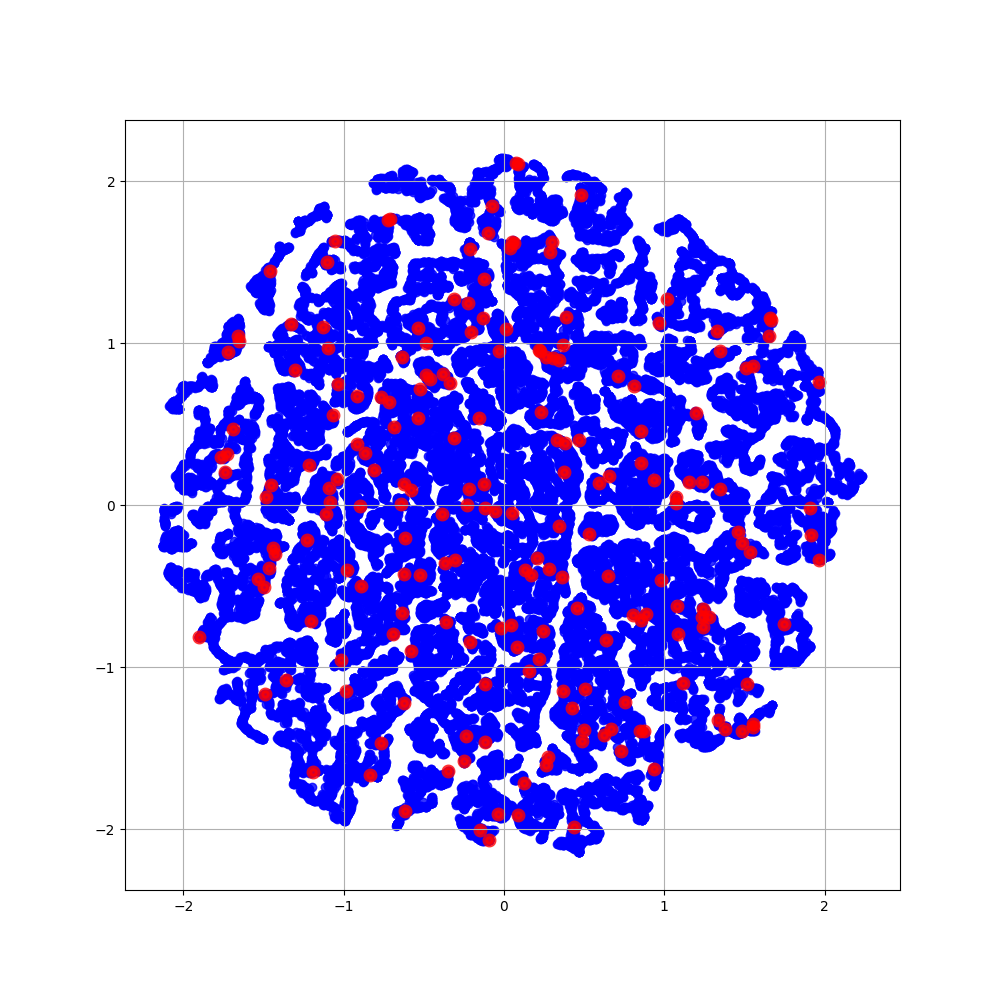
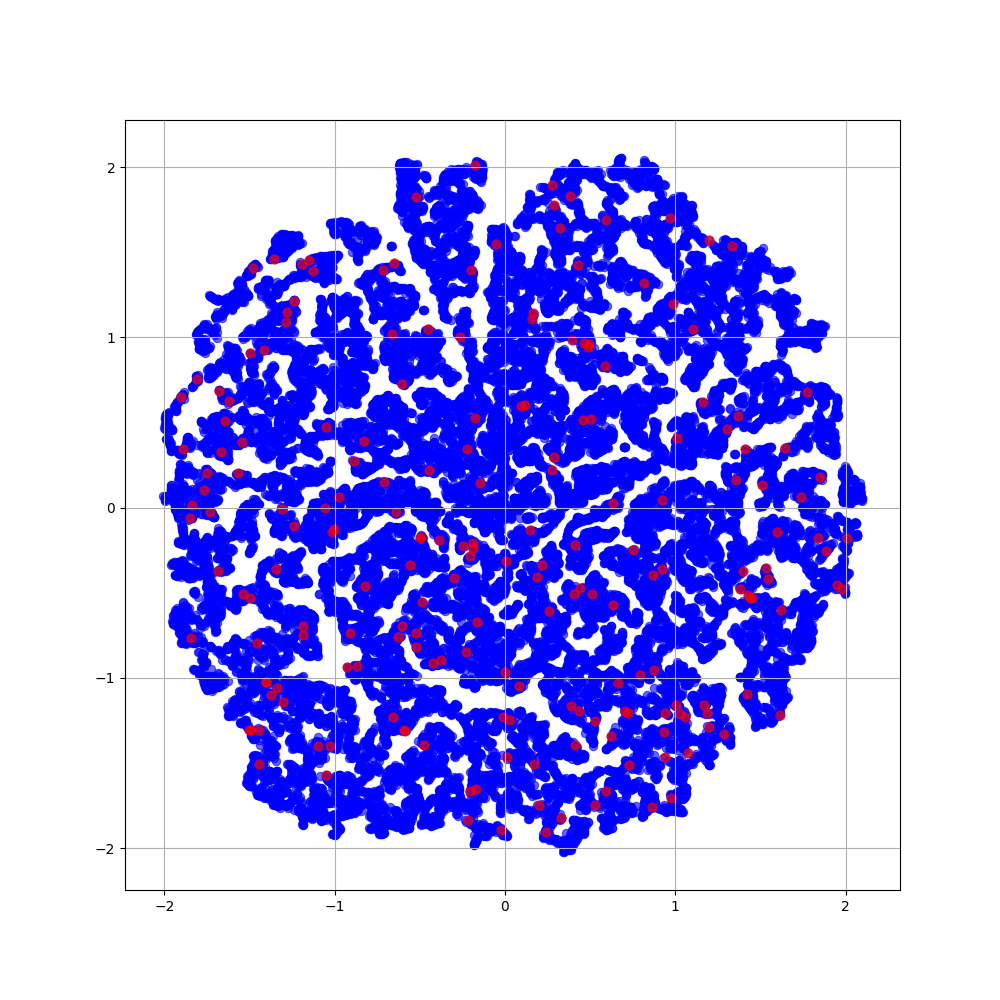
Save

Changed region(s): [[0.155, 0.155, 0.868, 0.868], [0.155, 0.155, 0.186, 0.186], [0.093, 0.651, 0.124, 0.682]]

diff --git a/PCA_Imagenet.py b/PCA_Imagenet.py
@@ -12,12 +12,12 @@ from sklearn.preprocessing import StandardScaler
 #from sklearn.datasets import load_digits
 
 #Input the Data folder here
-BASE_DATA_FOLDER = "../home/data/ilsvrc/ILSVRC/ILSVRC2012_Classification"#"../cat-and-dog"#../hymenoptera_data"#"../Medical_data"
+BASE_DATA_FOLDER = "/home/data/ilsvrc/ILSVRC/ILSVRC2012_Classification"#"../cat-and-dog"#../hymenoptera_data"#"../Medical_data"
 TRAin_DATA_FOLDER = os.path.join(BASE_DATA_FOLDER, "train")
 
 
 #Input the Highlight folder here
-BASE_HIGHLIGHT_FOLDER = "../home/nobelletay/al/org_centers"
+BASE_HIGHLIGHT_FOLDER = "/home/nobelletay/al/org_centers"
 
 
 #Plot
@@ -32,18 +32,18 @@ def visualize_scatter(data_2d, label_ids, figsize=(10,10)):
                     data_2d[np.where(label_ids == label_id), 1],
                     marker='o',
                     color=  'b',
-                    linewidth='1',
-                    alpha=0.8,
+                    linewidth='0.8',
+                    alpha=0.6,
                     label=id_to_label_dict[label_id])
 
     for label_id in np.unique(label_ids):
-        if (id_to_label_dict[label_id] = "highlight"):
+        if (id_to_label_dict[label_id] == "highlight"):
             plt.scatter(data_2d[np.where(label_ids == label_id), 0],
                         data_2d[np.where(label_ids == label_id), 1],
                         marker='o',
                         color= 'red',
-                        linewidth='4',
-                        alpha=0.8,
+                        linewidth='1.5',
+                        alpha=0.6,
                         label=id_to_label_dict[label_id])
 
 
@@ -76,7 +76,7 @@ for class_folder_name in os.listdir(TRAin_DATA_FOLDER):
         image = image.flatten()
         images.append(image)
         labels.append(class_folder_name)
-        if(image_counter > image_limited):
+        if(image_counter > image_limit):
             break
 #Read Images from Highlight folder
 image_counter=0
@@ -89,7 +89,7 @@ for image_path in glob(os.path.join(BASE_HIGHLIGHT_FOLDER, "*.jpg")):
         image = image.flatten()
         images.append(image)
         labels.append("highlight")
-        if(image_counter > image_limited):
+        if(image_counter > image_limit):
             break
 
 
@@ -110,7 +110,7 @@ images_scaled = StandardScaler().fit_transform(images)
 
 
 #How many features
-pca = PCA(n_components=2)
+pca = PCA(n_components=3)
 pca_result = pca.fit_transform(images_scaled)
 pca_result_scaled = StandardScaler().fit_transform(pca_result)
 #visualize_scatter(pca_result_scaled, label_ids)
@@ -118,7 +118,7 @@ pca_result_scaled = StandardScaler().fit_transform(pca_result)
 
 #Based on https://distill.pub/2016/misread-tsne/, the perplexity value can significantly affect the output plot 
 
-tsne = TSNE(n_components=2, perplexity=20.0)
+tsne = TSNE(n_components=2, perplexity=30.0)
 tsne_result = tsne.fit_transform(pca_result)
 tsne_result_scaled = StandardScaler().fit_transform(tsne_result)
 visualize_scatter(tsne_result_scaled, label_ids)
